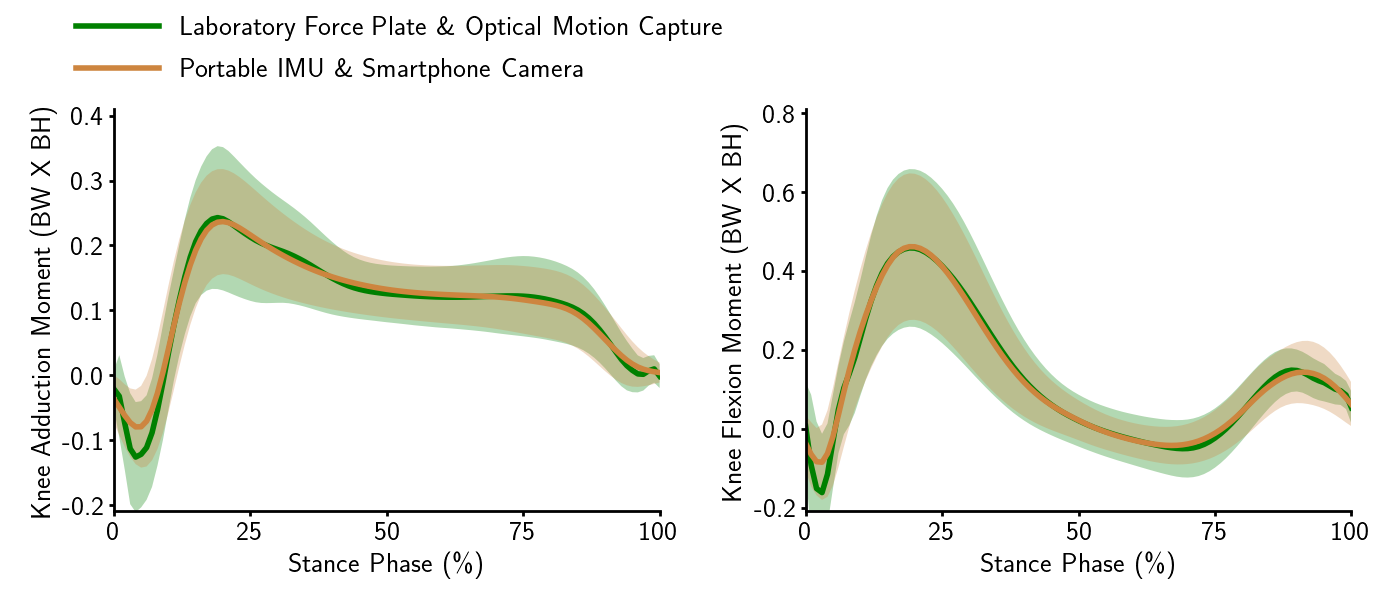
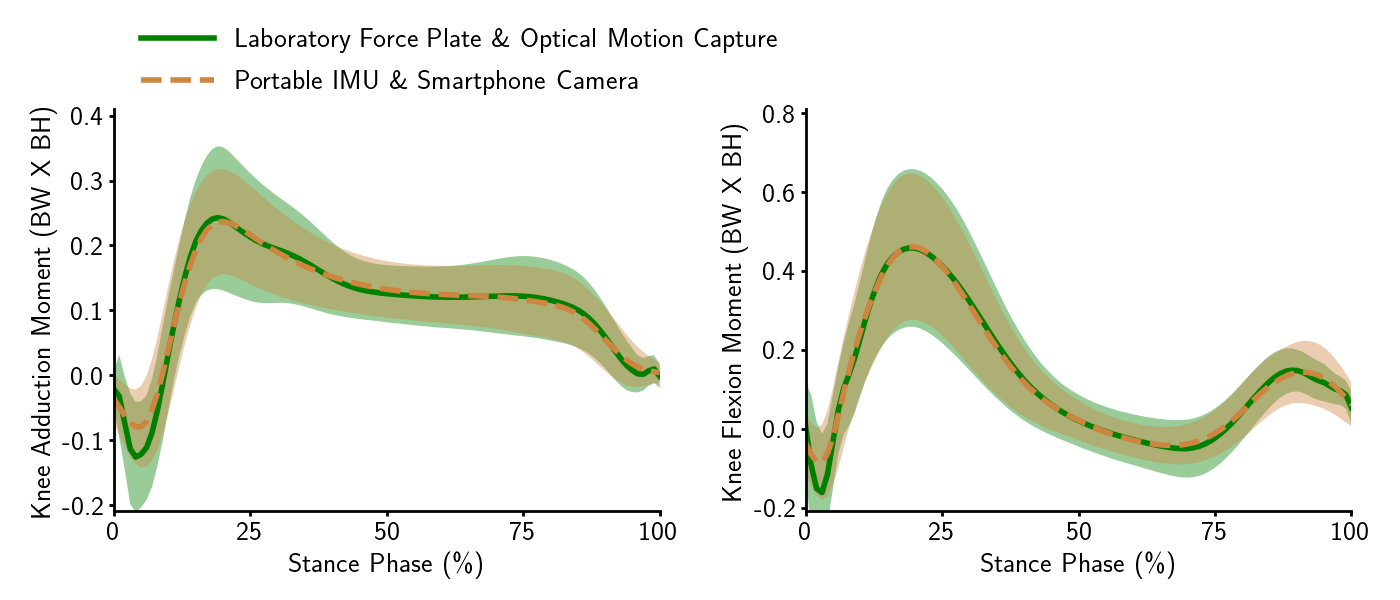
changed back to MinMax Norm midoutputs

Changed region(s): [[0.5529, 0.27, 0.9829, 0.84], [0.0614, 0.24, 0.4914, 0.84], [0.0307, 0.03, 0.5529, 0.15]]

diff --git a/tian_model.py b/tian_model.py
@@ -76,9 +76,9 @@ class TianCNN(nn.Module):
 
 
 class TianRNN(nn.Module):
-    def __init__(self, x_dim, y_dim, hidden_dim=10, nlayer=2):
+    def __init__(self, x_dim, y_dim, seed=0, hidden_dim=10, nlayer=2):
         super(TianRNN, self).__init__()
-        torch.manual_seed(0)
+        torch.manual_seed(seed)
         self.hidden_dim = hidden_dim
         self.rnn_layer = nn.LSTM(x_dim, hidden_dim, nlayer, batch_first=True, bidirectional=True)
         self.y_dim = y_dim
@@ -117,16 +117,16 @@ class FourSourceModel(nn.Module):
         out_fz = self.model_fz(x_fz, lens)
         out_rx = self.model_rx(x_rx, lens)
         out_rz = self.model_rz(x_rz, lens)
-        # zero_padding_loc = (out_fx == 0.) & (out_fz == 0.) & (out_rx == 0.) & (out_rz == 0.)
-        # out_fx = self.inverse_scaling(out_fx, 'midout_force_x')
-        # out_fz = self.inverse_scaling(out_fz, 'midout_force_z')
-        # out_rx = self.inverse_scaling(out_rx, 'midout_r_x')
-        # out_rz = self.inverse_scaling(out_rz, 'midout_r_z')
-        # weight = anthro[:, 0, 0].unsqueeze(1).unsqueeze(2)
-        # height = anthro[:, 0, 1].unsqueeze(1).unsqueeze(2)
+        zero_padding_loc = (out_fx == 0.) & (out_fz == 0.) & (out_rx == 0.) & (out_rz == 0.)
+        out_fx = self.inverse_scaling(out_fx, 'midout_force_x')
+        out_fz = self.inverse_scaling(out_fz, 'midout_force_z')
+        out_rx = self.inverse_scaling(out_rx, 'midout_r_x')
+        out_rz = self.inverse_scaling(out_rz, 'midout_r_z')
+        weight = anthro[:, 0, 0].unsqueeze(1).unsqueeze(2)
+        height = anthro[:, 0, 1].unsqueeze(1).unsqueeze(2)
         output = out_fx * out_rz - out_fz * out_rx
-        # output = torch.div(output, weight * height)
-        # output[zero_padding_loc] = 0
+        output = torch.div(output, weight * height)
+        output[zero_padding_loc] = 0
         return output
 
     def inverse_scaling(self, data, fields):
@@ -234,10 +234,11 @@ class TianModel(BaseModel):
                     x[k][:, :, loc] = self.normalize_array_separately(
                         x[k][:, :, loc], k+loc_name, 'fit_transform', scalar_mode=mode)
 
-        x, y = self.norm_f_by_weight_r_by_height(x, y)
-        # y_need_norm = {k: y[k] for k in set(list(y.keys())) - set(['main_output', 'auxiliary_info'])}
-        # y.update(
-        #     **self.normalize_data(y_need_norm, self._data_scalar, 'fit_transform', scalar_mode='by_each_column'))
+        y['midout_force_x'], y['midout_force_z'] = -y['midout_force_x'], -y['midout_force_z']
+        y['midout_r_x'], y['midout_r_z'] = y['midout_r_x'] / 1000, y['midout_r_z'] / 1000
+        y_need_norm = {k: y[k] for k in set(list(y.keys())) - set(['main_output', 'auxiliary_info'])}
+        y.update(
+            **self.normalize_data(y_need_norm, self._data_scalar, 'fit_transform', scalar_mode='by_each_column'))
         return x, y, weight
 
     def preprocess_validation_test_data(self, x, y, weight):
@@ -246,19 +247,11 @@ class TianModel(BaseModel):
                 if len(loc) > 0:
                     x[k][:, :, loc] = self.normalize_array_separately(
                         x[k][:, :, loc], k+loc_name, 'transform', scalar_mode=mode)
-        x, y = self.norm_f_by_weight_r_by_height(x, y)
-        # y_need_norm = {k: y[k] for k in set(list(y.keys())) - set(['main_output', 'auxiliary_info'])}
-        # y.update(**self.normalize_data(y_need_norm, self._data_scalar, 'transform', scalar_mode='by_each_column'))
+        y['midout_force_x'], y['midout_force_z'] = -y['midout_force_x'], -y['midout_force_z']
+        y['midout_r_x'], y['midout_r_z'] = y['midout_r_x'] / 1000, y['midout_r_z'] / 1000
+        y_need_norm = {k: y[k] for k in set(list(y.keys())) - set(['main_output', 'auxiliary_info'])}
+        y.update(**self.normalize_data(y_need_norm, self._data_scalar, 'transform', scalar_mode='by_each_column'))
         return x, y, weight
-
-    def norm_f_by_weight_r_by_height(self, x, y):
-        sub_height = x['anthro'][:, 0, self._x_fields['anthro'].index(SUBJECT_HEIGHT)]
-        sub_weight = x['anthro'][:, 0, self._x_fields['anthro'].index(SUBJECT_WEIGHT)]
-        y['midout_r_x'][:, :, 0] = y['midout_r_x'][:, :, 0] / (1000 * sub_height[:, np.newaxis])
-        y['midout_r_z'][:, :, 0] = y['midout_r_z'][:, :, 0] / (1000 * sub_height[:, np.newaxis])
-        y['midout_force_x'][:, :, 0] = -y['midout_force_x'][:, :, 0] / sub_weight[:, np.newaxis]
-        y['midout_force_z'][:, :, 0] = -y['midout_force_z'][:, :, 0] / sub_weight[:, np.newaxis]
-        return x, y
 
     def normalize_array_separately(self, data, name, method, scalar_mode='by_each_column'):
         if method == 'fit_transform':
@@ -288,25 +281,25 @@ class TianModel(BaseModel):
 
         x_train_rx, x_validation_rx = x_train['r_x'], x_validation['r_x']
         y_train_rx, y_validation_rx = y_train['midout_r_x'], y_validation['midout_r_x']
-        model_rx = TianRNN(x_train_rx.shape[2], y_train_rx.shape[2]).cuda()
+        model_rx = TianRNN(x_train_rx.shape[2], y_train_rx.shape[2], 0).cuda()
         params = {**sub_model_base_param, **{'target_name': 'midout_r_x', 'fields': ['KNEE_X']}}
         self.build_sub_model(model_rx, x_train_rx, y_train_rx, x_validation_rx, y_validation_rx, validation_weight, params)
 
         x_train_rz, x_validation_rz = x_train['r_z'], x_validation['r_z']
         y_train_rz, y_validation_rz = y_train['midout_r_z'], y_validation['midout_r_z']
-        model_rz = TianRNN(x_train_rz.shape[2], y_train_rz.shape[2]).cuda()
+        model_rz = TianRNN(x_train_rz.shape[2], y_train_rz.shape[2], 1).cuda()
         params = {**sub_model_base_param, **{'target_name': 'midout_r_z', 'fields': ['KNEE_Z']}}
         self.build_sub_model(model_rz, x_train_rz, y_train_rz, x_validation_rz, y_validation_rz, validation_weight, params)
 
         x_train_fz, x_validation_fz = x_train['force_z'], x_validation['force_z']
         y_train_fz, y_validation_fz = y_train['midout_force_z'], y_validation['midout_force_z']
-        model_fz = TianRNN(x_train_fz.shape[2], y_train_fz.shape[2]).cuda()
+        model_fz = TianRNN(x_train_fz.shape[2], y_train_fz.shape[2], 2).cuda()
         params = {**sub_model_base_param, **{'target_name': 'midout_force_z', 'fields': ['plate_2_force_z']}}
         self.build_sub_model(model_fz, x_train_fz, y_train_fz, x_validation_fz, y_validation_fz, validation_weight, params)
 
         x_train_fx, x_validation_fx = x_train['force_x'], x_validation['force_x']
         y_train_fx, y_validation_fx = y_train['midout_force_x'], y_validation['midout_force_x']
-        model_fx = TianRNN(x_train_fx.shape[2], y_train_fx.shape[2]).cuda()
+        model_fx = TianRNN(x_train_fx.shape[2], y_train_fx.shape[2], 3).cuda()
         params = {**sub_model_base_param, **{'target_name': 'midout_force_x', 'fields': ['plate_2_force_x']}}
         self.build_sub_model(model_fx, x_train_fx, y_train_fx, x_validation_fx, y_validation_fx, validation_weight, params)
 
@@ -467,9 +460,9 @@ class TianModel(BaseModel):
                     y_pred_list.append(model(xb, lens).detach().cpu())
                 y_pred = torch.cat(y_pred_list)
             y_pred = {params.target_name: y_pred.detach().cpu().numpy()}
-            # y_pred = self.normalize_data(y_pred, self._data_scalar, 'inverse_transform', 'by_each_column')
+            y_pred = self.normalize_data(y_pred, self._data_scalar, 'inverse_transform', 'by_each_column')
             y_true = {params.target_name: y_validation}
-            # y_true = self.normalize_data(y_true, self._data_scalar, 'inverse_transform', 'by_each_column')
+            y_true = self.normalize_data(y_true, self._data_scalar, 'inverse_transform', 'by_each_column')
             all_scores = BaseModel.get_all_scores(y_true, y_pred, {params.target_name: params.fields},
                                                   validation_weight)
             all_scores = [{'subject': 'all', **scores} for scores in all_scores]
@@ -683,7 +676,7 @@ if __name__ == "__main__":
     ACC_GYR_WEIGHTS_ALL = ACC_GYR_ALL + SEGMENT_WEIGHTS
     ACC_ALL_GYR_LEG = ACC_ML + ACC_AP + ACC_VERTICAL + R_FOOT_SHANK_GYR
     VID_ALL = VID_90_FIELDS + VID_180_FIELDS + ['RKnee_y_90']
-    USE_ALL_FEATURES = True
+    USE_ALL_FEATURES = False
 
     run_kam(use_imu=True, use_op=True)
     run_kam(use_imu=True, use_op=False)

diff --git a/figures/f3.py b/figures/f3.py
@@ -18,10 +18,10 @@ def draw_f3(mean_std_kam, mean_std_kfm):
         axis_x = range(arr_true_mean.shape[0])
         ax.plot(axis_x, arr_true_mean, color='green', label='Laboratory Force Plate \& Optical Motion Capture', linewidth=LINE_WIDTH*2)
         ax.fill_between(axis_x, arr_true_mean - arr_true_std, arr_true_mean + arr_true_std,
-                        facecolor='green', alpha=0.3)
-        ax.plot(axis_x, arr_pred_mean, color='peru', label='Portable IMU \& Smartphone Camera', linewidth=LINE_WIDTH*2)
+                        facecolor='green', alpha=0.4)
+        ax.plot(axis_x, arr_pred_mean, '--', color='peru', label='Portable IMU \& Smartphone Camera', linewidth=LINE_WIDTH*2)
         ax.fill_between(axis_x, arr_pred_mean - arr_pred_std, arr_pred_mean + arr_pred_std,
-                        facecolor='peru', alpha=0.3)
+                        facecolor='peru', alpha=0.4)
         ax.tick_params(labelsize=FONT_DICT['fontsize'])
         ax.set_xticks(range(0, 101, 25))
         ax.set_xticklabels(range(0, 101, 25), fontdict=FONT_DICT)
@@ -53,7 +53,7 @@ def draw_f3(mean_std_kam, mean_std_kfm):
     draw_subplot(fig.add_subplot(gs[1, 1]), mean_std_kfm)
     subplot_2_style()
     plt.tight_layout(rect=[0.01, 0.01, 0.99, 0.99], w_pad=3)
-    plt.legend(handlelength=3, bbox_to_anchor=(-0.1, 1.3), ncol=1, fontsize=FONT_SIZE,
+    plt.legend(handlelength=2.6, bbox_to_anchor=(0., 1.27), ncol=1, fontsize=FONT_SIZE,
                frameon=False)
     plt.savefig('exports/f3.png')
 
